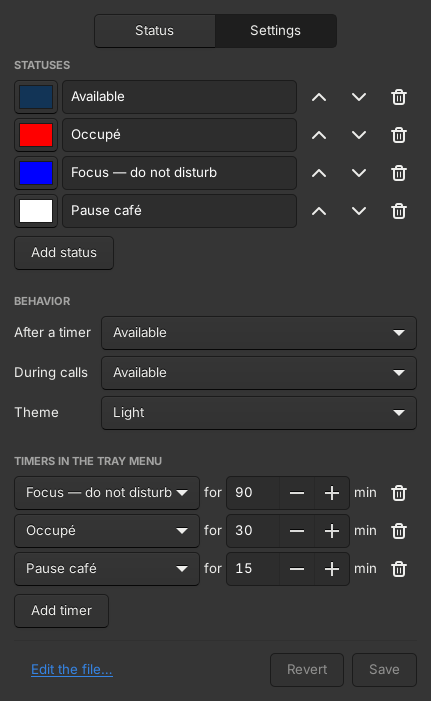
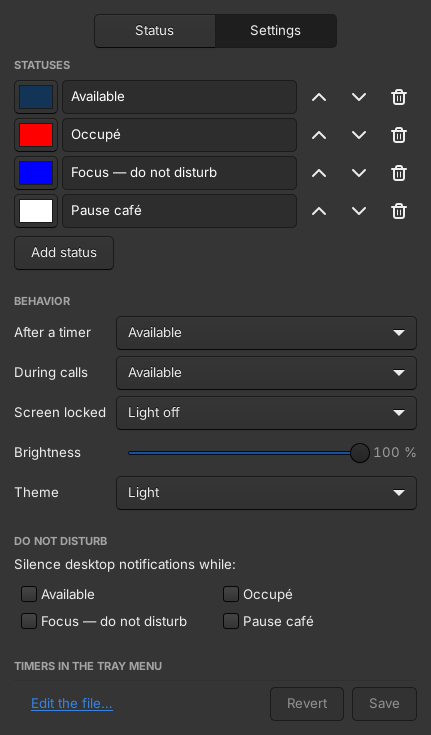
Settings tab: screen lock, call detection, brightness, do not disturb
- Screen locked: light off / a status / don't change (lock-status)
- During calls: a status, or "Don't change" (call-status = none, call
  detection off)
- Brightness slider (5–100 %), applied to the light when saved
- Do not disturb: one check box per status (dnd-statuses), off by default
- the page scrolls on small screens, with Revert / Save always visible;
  Revert now also puts the combo boxes back
- 11 UI tests; screenshots updated

Claude-Session: https://claude.ai/code/session_01HiipHthEjkDPDLwqHjDQ32

diff --git a/tests/ui.py b/tests/ui.py
@@ -294,6 +294,26 @@ if "--screenshot" in sys.argv:
     Gdk.pixbuf_get_from_window(win, 0, 0, win.get_width(), win.get_height()).savev(out, "png", [], [])
     print(f"  (screenshot: {out})")
 
+eq("screen locked: light off by default", page.lock_combo.get_active_id(), "off")
+eq("…choices: light off, the statuses, don't change",
+   [page.lock_combo.get_model()[0][0], page.lock_combo.get_model()[len(page.lock_combo.get_model()) - 1][0]],
+   ["Light off", "Don't change"])
+eq("brightness loaded", int(page.brightness.get_value()), 100)
+eq("no dnd status by default", [c.key for c in page.dnd_checks() if c.get_active()], [])
+page.lock_combo.set_active_id("focus")
+page.call_combo.set_active_id("none")
+page.brightness.set_value(60)
+next(c for c in page.dnd_checks() if c.key == "busy").set_active(True)
+eq("save behavior settings", page.save(), True)
+eq("lock-status saved", toggle("--setting", "lock-status"), "focus")
+eq("call-status none saved (call detection off)", toggle("--setting", "call-status"), "none")
+eq("brightness saved", toggle("--setting", "brightness"), "60")
+eq("dnd-statuses saved", toggle("--setting", "dnd-statuses"), "busy")
+eq("reloaded: dnd check box kept", [c.key for c in page.dnd_checks() if c.get_active()], ["busy"])
+page.lock_combo.set_active_id("none")
+page.load()
+eq("revert puts the combo boxes back too", page.lock_combo.get_active_id(), "focus")
+
 page.rows()[0].label.set_text("   ")
 eq("empty name → not saved", page.save(), False)
 eq("…with a message", page.message.get_text(), "Give every status a name.")
